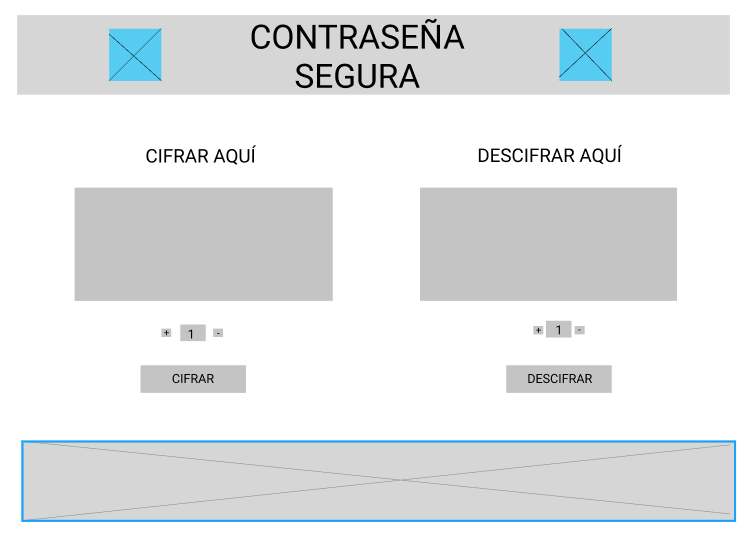
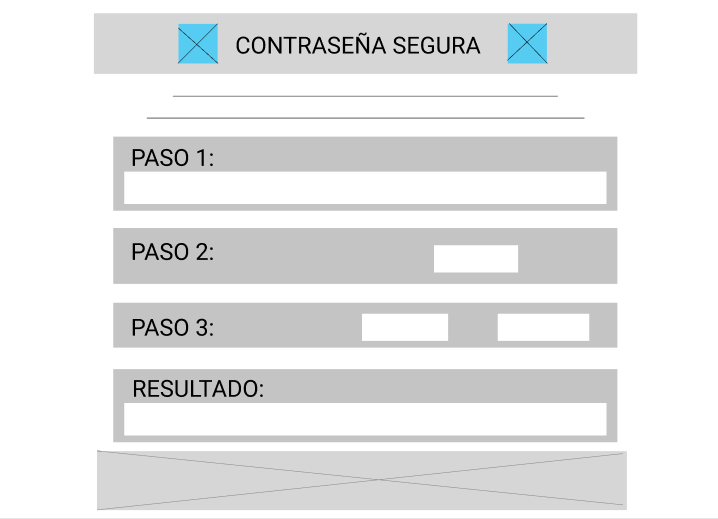
Readme modificado

diff --git a/README.md b/README.md
@@ -14,9 +14,9 @@
     * "CONTRASEÑA SEGURA " facilita a los usuarios a obtener una contraseña más difíciles de hackeara 
   3. FOTO PRIMER PROTOTIPO PAPEL 
     ![](./PROTOTIPO-1.jpeg)
-  4. Me recomendaron que la palabra 'INGRESE TEXTO A CODIFICAR AQUÍ' estaba un poco mal entendido, porque ese texto da a entender que solo se puede ingresar texto más no que puede mostrar el resultado. Por ello, decidí cambiarlo por 'Cifra aquí'.
+  4. Me recomendaron que la palabra 'INGRESE TEXTO A CODIFICAR AQUÍ' estaba un poco mal entendido, porque ese texto da a entender que solo se puede ingresar texto más no que puede mostrar el resultado. Por ello, decidí cambiarlo por 'Cifra aquí'. Sin embargo, mi prototipo no era comprendido por diferentes usuarios, era necesario explicarles qué función tenía cuadro o botón y se complicaban. Tras las recomendaciones recogidas consulté la posibilidad de que solo exita un cuadro en donde ingresen el texto que deseen, un offset y dos botones que digan cuál es la función que quieren realizar. Además, decidí agregar al diseño la secuencia de lo que realiza este producto paso a paso, hasta llegar al resultado final.
   5. SEGUNDO PROTOTIPO
-  ![](./prototipo-2.PNG)
+    ![](./prototipo-2.PNG)
 
 
 ------------------------------------------------------*-*-----------------------------------------------------------------
@@ -32,14 +32,14 @@ Reflexiona y luego marca los objetivos que has llegado a **entender** y
 ### UX
 
 * [ ] [Diseñar la aplicación pensando y entendiendo al usuario](https://lms.laboratoria.la/cohorts/lim-2020-01-bc-core-lim012/courses/intro-ux/01-el-proceso-de-diseno/00-el-proceso-de-diseno)
-*  ] [Crear prototipos para obtener feedback e iterar](https://lms.laboratoria.la/cohorts/lim-2020-01-bc-core-lim012/courses/product-design/00-sketching/00-sketching)
+* [*] [Crear prototipos para obtener feedback e iterar](https://lms.laboratoria.la/cohorts/lim-2020-01-bc-core-lim012/courses/product-design/00-sketching/00-sketching)
 * [ ] [Aplicar los principios de diseño visual](https://lms.laboratoria.la/cohorts/lim-2020-01-bc-core-lim012/courses/product-design/01-visual-design/01-visual-design-basics)
 
 ### HTML y CSS
 
 * [ ] [Uso correcto de HTML semántico](https://developer.mozilla.org/en-US/docs/Glossary/Semantics#Semantics_in_HTML)
 * [ ] [Uso de selectores de CSS](https://developer.mozilla.org/es/docs/Web/CSS/Selectores_CSS)
-* [ ] [Construir tu aplicación respetando el diseño realizado](https://lms.laboratoria.la/cohorts/lim-2020-01-bc-core-lim012/courses/css/01-css/02-boxmodel-and-display) (maquetación).
+* [*] [Construir tu aplicación respetando el diseño realizado](https://lms.laboratoria.la/cohorts/lim-2020-01-bc-core-lim012/courses/css/01-css/02-boxmodel-and-display) (maquetación).
 
 ### DOM
 
@@ -49,7 +49,7 @@ Reflexiona y luego marca los objetivos que has llegado a **entender** y
 
 ### Javascript
 
-* [ ] [Manipulación de strings](https://lms.laboratoria.la/cohorts/lim-2020-01-bc-core-lim012/courses/javascript/06-strings/01-strings)
+* [*] [Manipulación de strings](https://lms.laboratoria.la/cohorts/lim-2020-01-bc-core-lim012/courses/javascript/06-strings/01-strings)
 * [ ] [Uso de condicionales](https://lms.laboratoria.la/cohorts/lim-2020-01-bc-core-lim012/courses/javascript/02-flow-control/01-conditionals-and-loops)
 * [ ] [Uso de bucles](https://lms.laboratoria.la/cohorts/lim-2020-01-bc-core-lim012/courses/javascript/02-flow-control/02-loops)
 * [ ] [Uso de funciones](https://lms.laboratoria.la/cohorts/lim-2019-09-bc-core-lim011/courses/javascript/02-flow-control/03-functions)
@@ -58,11 +58,11 @@ Reflexiona y luego marca los objetivos que has llegado a **entender** y
 
 ### Testing
 
-* [ ] [Testeo de tus funciones](https://jestjs.io/docs/es-ES/getting-started)
+* [] [Testeo de tus funciones](https://jestjs.io/docs/es-ES/getting-started)
 
 ### Git y GitHub
 
-* [ ] [Comandos de git](https://lms.laboratoria.la/cohorts/lim-2019-09-bc-core-lim011/courses/scm/01-git/04-commands)
+* [*] [Comandos de git](https://lms.laboratoria.la/cohorts/lim-2019-09-bc-core-lim011/courses/scm/01-git/04-commands)
   (`add` | `commit` | `pull` | `status` | `push`).
 * [ ] [Manejo de repositorios de GitHub](https://lms.laboratoria.la/cohorts/lim-2019-09-bc-core-lim011/courses/scm/02-github/01-github)  (`clone` | `fork` | `gh-pages`).
 
